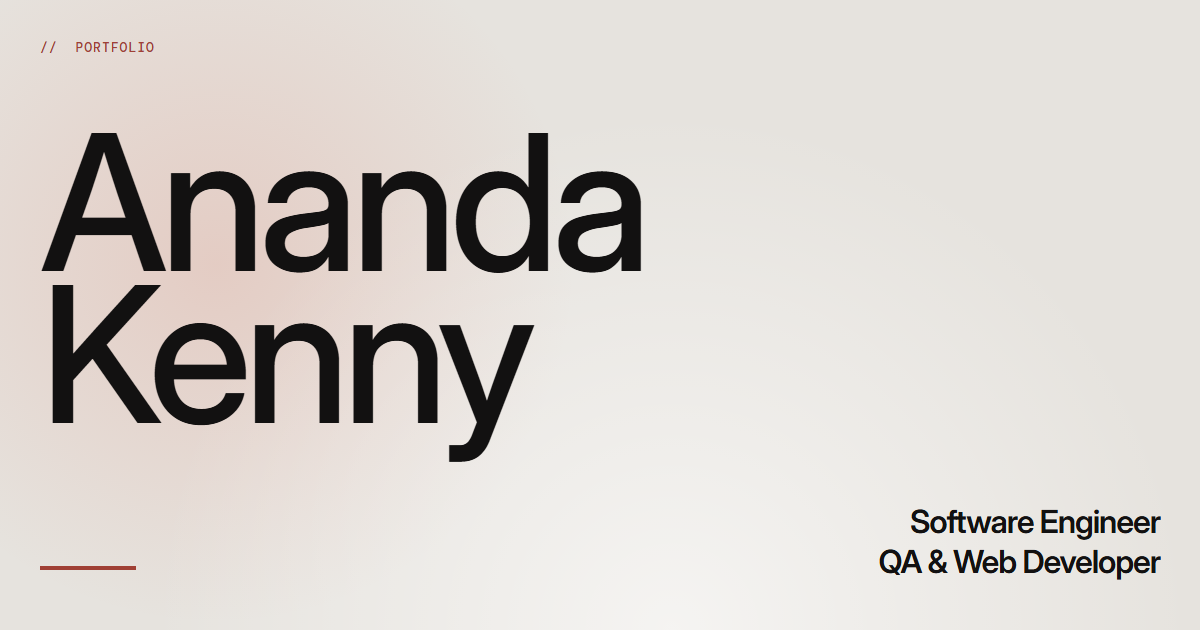
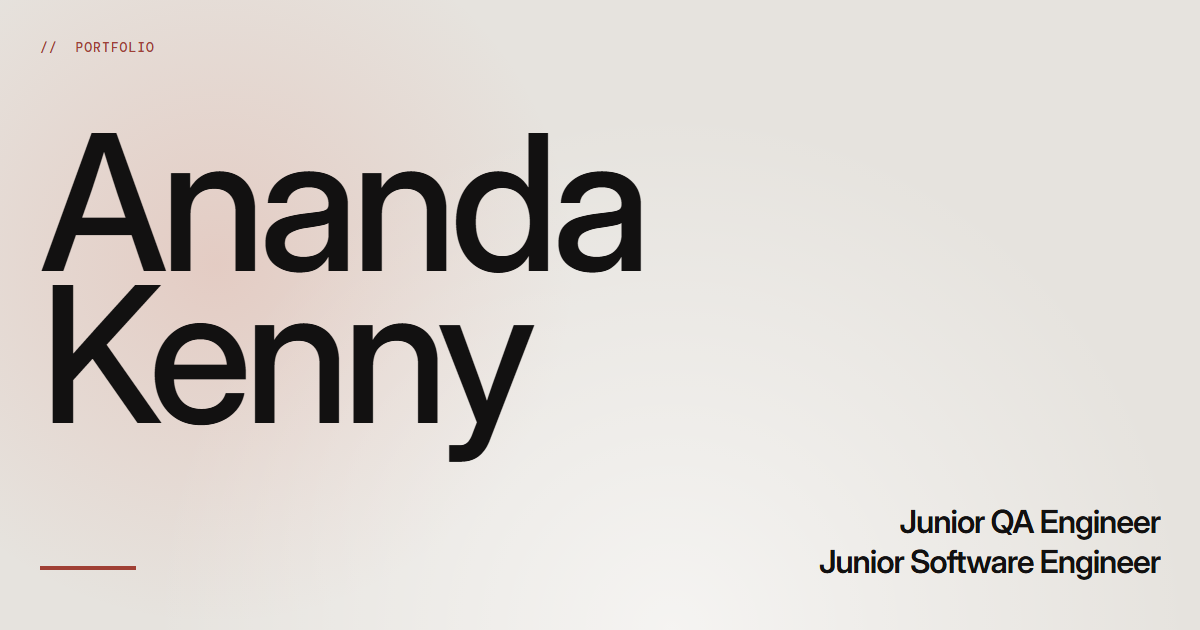
chore(og): the card with the junior roles
hero.roles become "Junior QA Engineer" / "Junior Software Engineer" in both
languages (English word order, owner decision), and the OpenGraph card is
re-exported with them: node scripts/export-og.mjs against next dev -p 3100,
1200 x 630, 213.5 KB lossless, with the new alt text. TC-077 now also checks
that app/opengraph-image.alt.txt matches en.meta.og.alt, so a stale export fails.

Changed region(s): [[0.6783, 0.8746, 0.9558, 0.9349], [0.74, 0.8143, 0.8633, 0.8444]]

diff --git a/tests/playwright/polish.spec.ts b/tests/playwright/polish.spec.ts
@@ -1,5 +1,6 @@
 // M4a polish (PRD F-14, F-15, §8 SEO): sitemap, robots, canonical, JSON-LD, OpenGraph image,
 // per-language title and description, the 404 page, Experience rows. TC-075 to TC-084.
+import { readFileSync } from 'node:fs'
 import type { Page } from '@playwright/test'
 import { expect, test } from './fixtures'
 import en from '../../content/en'
@@ -174,6 +175,8 @@ test('the OpenGraph image is a 1200 × 630 PNG shared by the Twitter card', asyn
   expect(await metaContent(page, 'og:image:height')).toBe('630')
   expect(await metaContent(page, 'og:image:type')).toBe('image/png')
   expect(await metaContent(page, 'og:image:alt')).toBe(en.meta.og.alt)
+  // The alt file is written by scripts/export-og.mjs with the PNG: a stale export shows here.
+  expect(readFileSync('app/opengraph-image.alt.txt', 'utf8')).toBe(en.meta.og.alt)
   expect(await metaContent(page, 'og:type')).toBe('website')
   expect(await metaContent(page, 'og:site_name')).toBe(site.brand)
   expect(await metaContent(page, 'og:locale')).toBe(site.ogLocale.en)

diff --git a/content/id.ts b/content/id.ts
@@ -8,7 +8,7 @@ const id = {
       'Portofolio Ananda Kenny, software engineer serta QA & web developer di Jakarta Timur, Indonesia. Produk web Next.js, diuji seperti pengguna sungguhan.',
     og: {
       label: 'Portofolio',
-      alt: 'Kartu portofolio: “Ananda Kenny” dalam huruf besar di atas kertas hangat, dengan peran Software Engineer serta QA & Web Developer',
+      alt: 'Kartu portofolio: “Ananda Kenny” dalam huruf besar di atas kertas hangat, dengan peran Junior QA Engineer dan Junior Software Engineer',
     },
   },
   nav: {
@@ -25,7 +25,7 @@ const id = {
   },
   hero: {
     name: 'Ananda Kenny',
-    roles: ['Software Engineer', 'QA & Web Developer'],
+    roles: ['Junior QA Engineer', 'Junior Software Engineer'],
     availability: 'Terbuka untuk bekerja',
     socials: { linkedin: 'LinkedIn', github: 'GitHub', whatsapp: 'WhatsApp' },
     scrollCue: 'Perkenalan',

diff --git a/content/en.ts b/content/en.ts
@@ -8,7 +8,7 @@ const en = {
       'Portfolio of Ananda Kenny, a software engineer and QA & web developer in East Jakarta, Indonesia. Next.js web products, tested like a user would.',
     og: {
       label: 'Portfolio',
-      alt: 'Portfolio card: “Ananda Kenny” in large type on warm paper, with the roles Software Engineer and QA & Web Developer',
+      alt: 'Portfolio card: “Ananda Kenny” in large type on warm paper, with the roles Junior QA Engineer and Junior Software Engineer',
     },
   },
   nav: {
@@ -25,7 +25,7 @@ const en = {
   },
   hero: {
     name: 'Ananda Kenny',
-    roles: ['Software Engineer', 'QA & Web Developer'],
+    roles: ['Junior QA Engineer', 'Junior Software Engineer'],
     availability: 'Open to work',
     socials: { linkedin: 'LinkedIn', github: 'GitHub', whatsapp: 'WhatsApp' },
     scrollCue: 'Intro',
